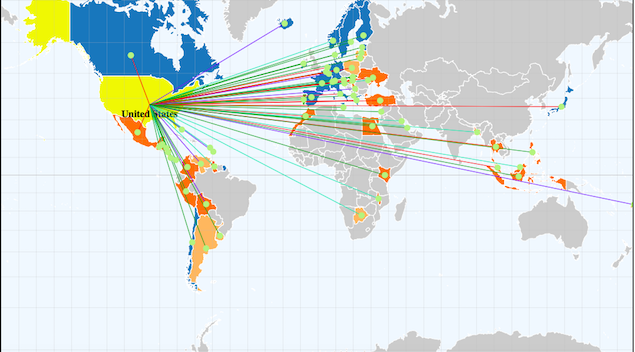
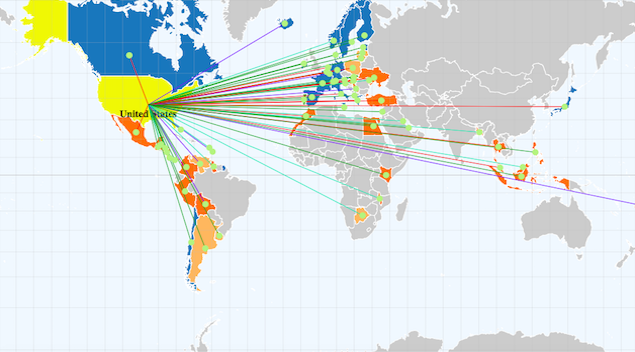
Improved CSS and JavaScript

diff --git a/index.html b/index.html
@@ -40,7 +40,6 @@
     <link rel="shortcut icon" href="me.ico">
     <style>
         #map {
-          height:100%;
           overflow:hidden;
           background: #F0F8FF;
         }
@@ -74,6 +73,18 @@
           stroke-width: 1px;
         }
     </style>
+    <script>
+        /*Load content only after background loads*/
+        $(function() {
+            $("#onload").hide();
+            $("#menu-toggle").hide();
+            $('header').ready(function() {
+                //alert('ready');
+                $('#onload').show();
+                $("#menu-toggle").show();
+            });
+        });
+    </script>
 </head>
 
 <body> 
@@ -109,7 +120,7 @@
     <!-- Header -->
     <header id="top" class="header">
         <div class="text-vertical-center">
-             <div class="post1">
+             <div class="post1" id="onload">
                 <h1>It All Begins With Passion</h1>
                 <h3>My Name is Stephanie Qian Wang</h3>
                 <br>
@@ -122,13 +133,12 @@
     <section id="about" class="about">
         <div class="container">
             <div class="row">
-              <span class="col-lg-4">
+              <div class="col-lg-4">
                 <div class="post3">
                     <img src="img/stephanie.jpg" alt="My about photo" width="350"/>
                 </div>
-              </span>
-              
-              <span class="col-lg-8">
+              </div>
+              <div class="col-lg-8">
                   <div class="post4" style="font-size: 16px;">
                       <p>I am a senior majoring in <strong>Information Science</strong> and minoring in
                       <strong>Business</strong> at
@@ -153,7 +163,7 @@
                       <p>I am very passionate about <strong>entrepreneurship</strong> and the <strong>startup community</strong>.
                       I am the <strong>chief curator</strong> in charge of Ithaca area at <a href="http://uvc.org/ecosystem/community-connectors/" target="_blank">Upstate Venture Connect</a>.</p>
                   </div>
-              </span>
+              </div>
             </div>
         </div>
         <!-- /.container -->
@@ -232,14 +242,15 @@
                                     
                                 </div>
                             </div>
-                            
-                            <a href="pdfs/resume_WANG.pdf" class="btn btn-dark" target="_blank">View and Download My PDF Resume</a>
                         </div>
                         <!-- /.row (nested) -->
                 </div>
                 <!-- /.col-lg-10 -->
             </div>
             <!-- /.row -->
+            <div class="row text-center">
+                <a href="pdfs/resume_WANG.pdf" class="btn btn-dark" target="_blank">View and Download My PDF Resume</a>
+            </div>
         </div>
         <!-- /.container -->
     </section>
@@ -365,7 +376,7 @@
                             <div class="post4">
                             <div class="portfolio-item">
                             <h3><a href="pdfs/UpAlarm.pdf" >UpAlarm: Reducing a Sedentary Lifestyle by Encouraging Standing Up and Exercising</a></h3>
-                            <h3>Ubiquitous Computing</h3>
+                            <h3>Android Application - Ubiquitous Computing</h3>
                             </div>
                             </div>
                             
@@ -384,7 +395,8 @@
                         <div class="col-md-6">
                             <div class="post4">
                             <div class="portfolio-item">
-                            <h3>D3 data visualization for you to see how many countries you can travel to with your passport!</h3>
+                            <h3><a href="https://github.com/stephaniewang526/Passport-Power" >D3 data visualization</a></h3>
+                            <h3>See how many countries you can travel to with your passport!</h3>
                             </div>
                             </div>
                             
@@ -417,7 +429,7 @@
     <!-- Map -->
     <div id="map"></div>
 	
-	<script>
+    <script>
         d3.json("cleandata.json", function (error, data){
             var numbers = data;
             
@@ -596,8 +608,8 @@
                 draw(topo);
                 }
         });
-	</script>
-    
+    </script>
+
     <!-- Footer -->
     <footer>
         <div class="container">
@@ -655,54 +667,54 @@
     <script src="//ajax.googleapis.com/ajax/libs/jquery/1.11.0/jquery.min.js"></script> 
     <script src="js/viewportchecker.js"></script> 
     <script type="text/javascript">
-    jQuery(document).ready(function() {
-            jQuery('.post').addClass("hidden1").viewportChecker({
-                classToAdd: 'visible animated shake',
-                offset: 100    
-               });   
-    });
-    
-    jQuery(document).ready(function() {
-            jQuery('.post1').addClass("hidden1").viewportChecker({
-                classToAdd: 'visible animated fadeInUp',
-                offset: 100    
-               });   
-    });
-    
-    jQuery(document).ready(function() {
-            jQuery('.post2').addClass("hidden1").viewportChecker({
-                classToAdd: 'visible animated flipInX',
-                offset: 100    
-               });   
-    });
-    
-    jQuery(document).ready(function() {
-            jQuery('.post3').addClass("hidden1").viewportChecker({
-                classToAdd: 'visible animated bounceInLeft',
-                offset: 100    
-               });   
-    });
-    
-    jQuery(document).ready(function() {
-            jQuery('.post4').addClass("hidden1").viewportChecker({
-                classToAdd: 'visible animated bounceInRight',
-                offset: 100    
-               });   
-    });
-    
-    jQuery(document).ready(function() {
-            jQuery('.post5').addClass("hidden1").viewportChecker({
-                classToAdd: 'visible animated fadeInLeft',
-                offset: 100    
-               });   
-    });
-    
-    jQuery(document).ready(function() {
-            jQuery('.post6').addClass("hidden1").viewportChecker({
-                classToAdd: 'visible animated rotateIn',
-                offset: 100    
-               });   
-    });
+        jQuery(document).ready(function() {
+                jQuery('.post').addClass("hidden1").viewportChecker({
+                    classToAdd: 'visible animated shake',
+                    offset: 100    
+                   });   
+        });
+        
+        jQuery(document).ready(function() {
+                jQuery('.post1').addClass("hidden1").viewportChecker({
+                    classToAdd: 'visible animated fadeInUp',
+                    offset: 100    
+                   });   
+        });
+        
+        jQuery(document).ready(function() {
+                jQuery('.post2').addClass("hidden1").viewportChecker({
+                    classToAdd: 'visible animated flipInX',
+                    offset: 100    
+                   });   
+        });
+        
+        jQuery(document).ready(function() {
+                jQuery('.post3').addClass("hidden1").viewportChecker({
+                    classToAdd: 'visible animated bounceInLeft',
+                    offset: 100    
+                   });   
+        });
+        
+        jQuery(document).ready(function() {
+                jQuery('.post4').addClass("hidden1").viewportChecker({
+                    classToAdd: 'visible animated bounceInRight',
+                    offset: 100    
+                   });   
+        });
+        
+        jQuery(document).ready(function() {
+                jQuery('.post5').addClass("hidden1").viewportChecker({
+                    classToAdd: 'visible animated fadeInLeft',
+                    offset: 100    
+                   });   
+        });
+        
+        jQuery(document).ready(function() {
+                jQuery('.post6').addClass("hidden1").viewportChecker({
+                    classToAdd: 'visible animated rotateIn',
+                    offset: 100    
+                   });   
+        });
     </script>
     
     <!-- Custom Theme JavaScript -->
@@ -735,16 +747,6 @@
         });
     });
     </script>
-
-    <!-- Google Tag Manager -->
-    <noscript><iframe src="//www.googletagmanager.com/ns.html?id=GTM-NQJ5XT"
-    height="0" width="0" style="display:none;visibility:hidden"></iframe></noscript>
-    <script>(function(w,d,s,l,i){w[l]=w[l]||[];w[l].push({'gtm.start':
-    new Date().getTime(),event:'gtm.js'});var f=d.getElementsByTagName(s)[0],
-    j=d.createElement(s),dl=l!='dataLayer'?'&l='+l:'';j.async=true;j.src=
-    '//www.googletagmanager.com/gtm.js?id='+i+dl;f.parentNode.insertBefore(j,f);
-    })(window,document,'script','dataLayer','GTM-NQJ5XT');</script>
-    <!-- End Google Tag Manager --> 
 </body>
 
 </html>

diff --git a/css/style.css b/css/style.css
@@ -101,6 +101,10 @@ hr.small {
     transition: all 0.4s ease 0s;
 }
 
+a:hover{
+     text-decoration: none;
+     color: #EC6EBA;
+}
 .sidebar-nav {
     position: absolute;
     top: 0;
@@ -238,16 +242,7 @@ hr.small {
 }
 
 .img-portfolio:hover {
-     opacity: 0.8;
-     -webkit-box-shadow: 0px 0px 15px 10px rgba(255, 255, 255, .75);
-     box-shadow: 0px 0px 15px 10px rgba(255, 255, 255, .75);
-}
-
-.img-portfolio {
-     -webkit-box-shadow: 0px 0px 15px 5px #EC6EBA;
-     box-shadow: 0px 0px 15px 5px #EC6EBA;
-     -webkit-transition: all 0.7s ease;
-     transition: all 0.7s ease;
+     opacity: 0.8; 
 }
 
 /* Call to Action */
